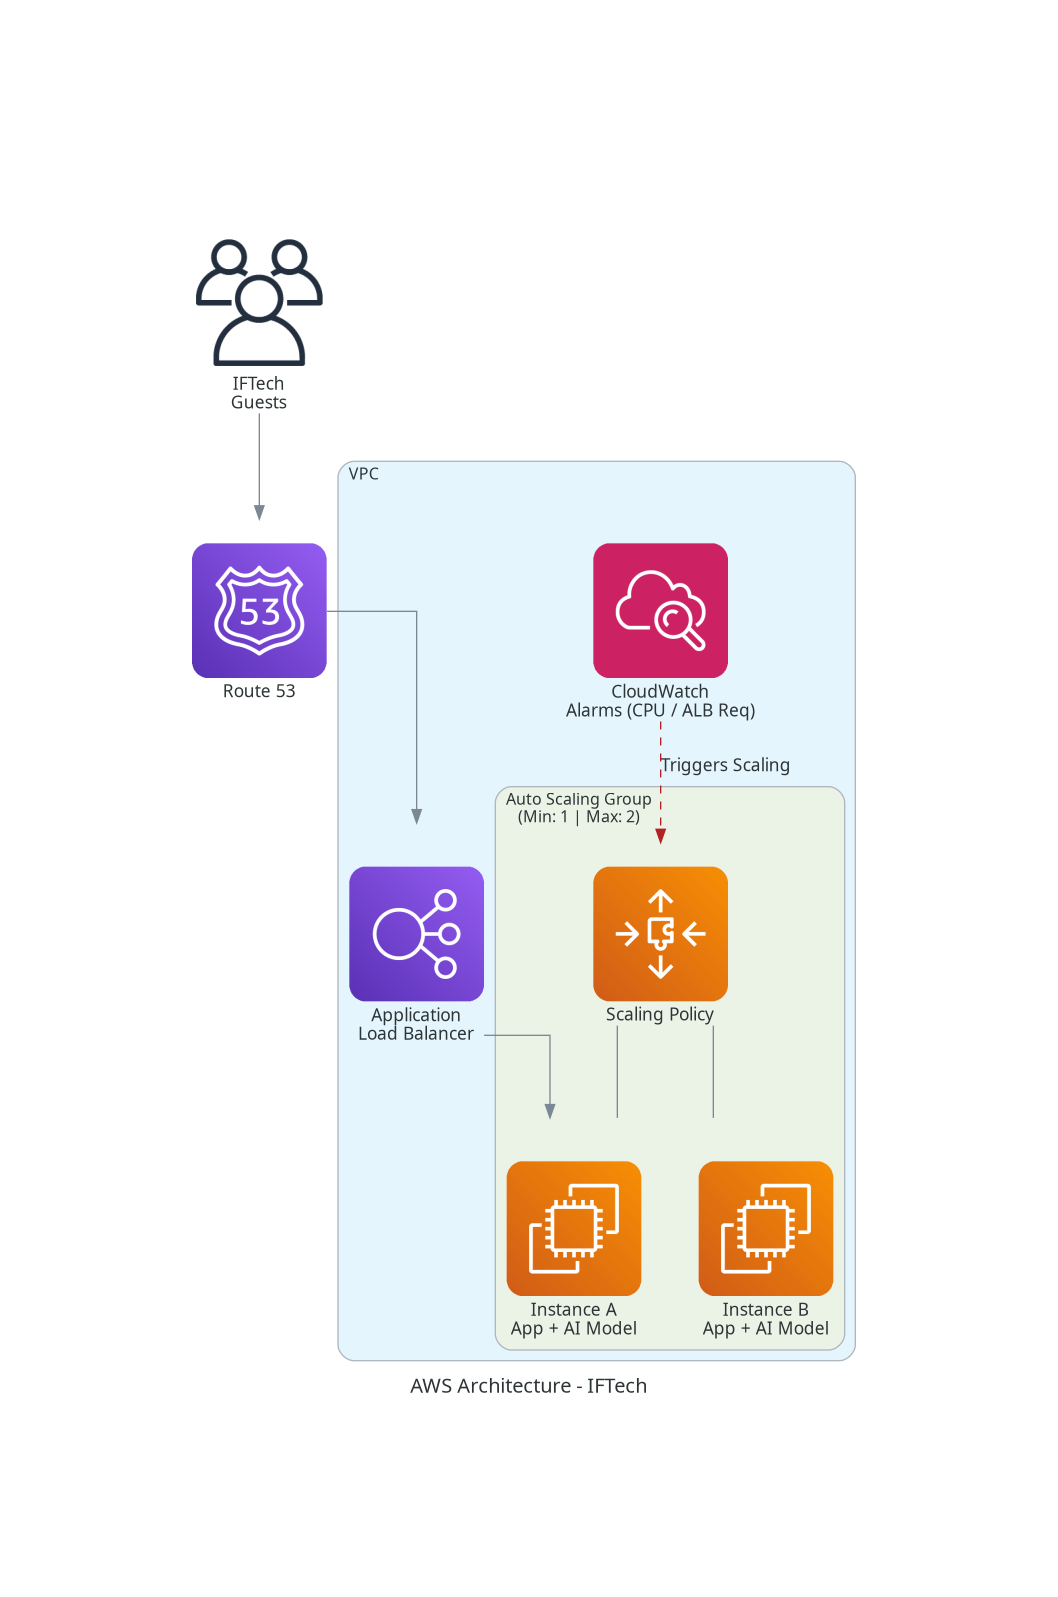
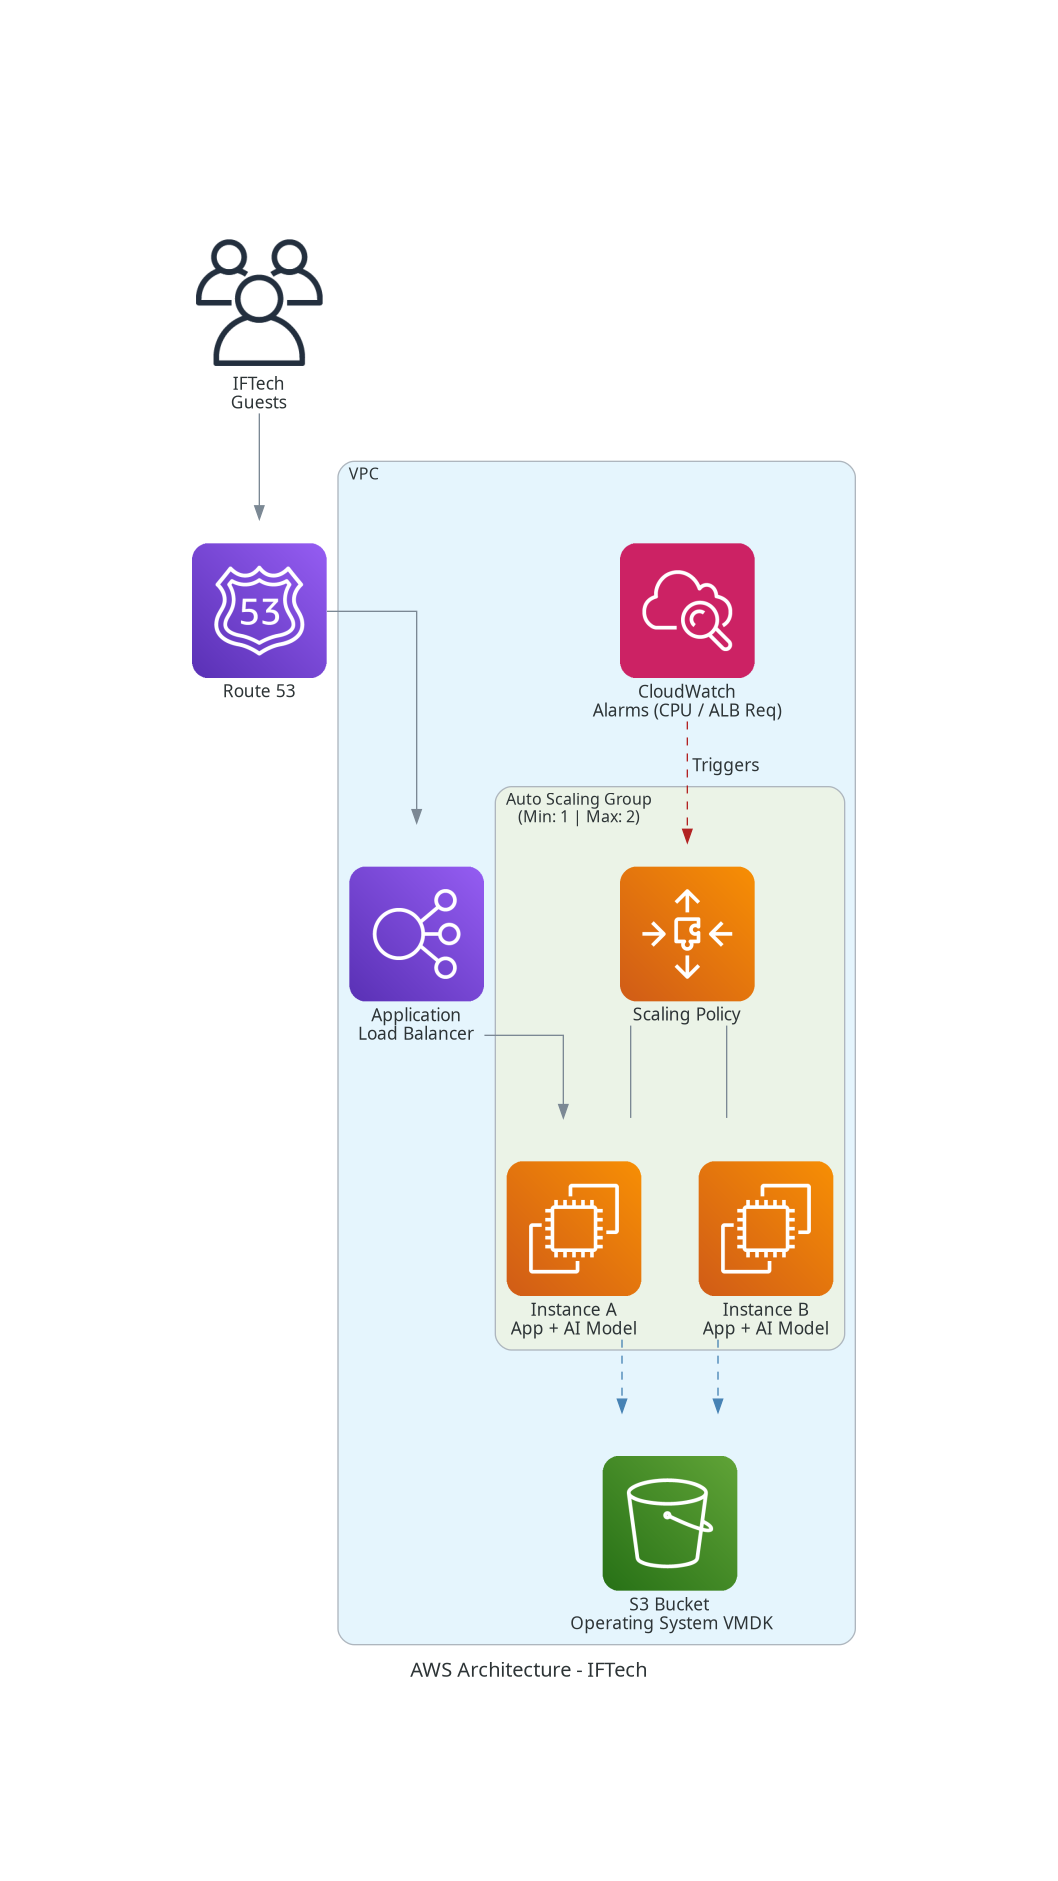
chore: S3 bucket added

Changed region(s): [[0.156, 0.1227, 0.811, 0.8898]]

diff --git a/iac/diagrams/draw.py b/iac/diagrams/draw.py
@@ -2,6 +2,7 @@ from diagrams import Diagram, Cluster, Edge
 from diagrams.aws.network import Route53, ELB
 from diagrams.aws.compute import EC2, AutoScaling
 from diagrams.aws.management import Cloudwatch
+from diagrams.aws.storage import S3
 from diagrams.onprem.client import Users
 
 with Diagram(
@@ -17,6 +18,8 @@ with Diagram(
     with Cluster("VPC"):
         alb = ELB("Application\nLoad Balancer")
         cloudwatch = Cloudwatch("CloudWatch\nAlarms (CPU / ALB Req)")
+        
+        bucket = S3("S3 Bucket\n Operating System VMDK")
 
         with Cluster("Auto Scaling Group\n(Min: 1 | Max: 2)"):
             asg = AutoScaling("Scaling Policy")
@@ -27,5 +30,7 @@ with Diagram(
             asg - [ec2_a, ec2_b]
 
     users >> dns >> alb >> ec2_a
+    
+    [ec2_a, ec2_b] >> Edge(color="steelblue", style="dashed") >> bucket
 
-    cloudwatch >> Edge(color="firebrick", style="dashed", label="Triggers Scaling") >> asg
+    cloudwatch >> Edge(color="firebrick", style="dashed", label=" Triggers") >> asg
